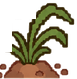
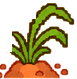
잡초: 아이콘 그림 오른쪽 아래 모서리에 크게·선명하게, 살랑살랑 흔들림 / 뽑을 때 그 자리에 서기

diff --git a/android/app/src/main/java/com/oddfactory/carrot/Stage.java b/android/app/src/main/java/com/oddfactory/carrot/Stage.java
@@ -235,6 +235,10 @@ final class Stage extends View {
     void setStale(Set<String> labels) { stale = labels; invalidate(); }
     void setScale(float k) { scale = k; invalidate(); }
 
+    // 잡초 자리: 아이콘 그림(칸 위쪽 약 70%) 오른쪽 아래 모서리
+    static float weedX(RectF r) { return r.centerX() + r.width() * 0.27f; }
+    static float weedY(RectF r) { return r.top + r.height() * 0.70f; }
+
     // ---- 크기 ----
     /** 캐릭터 키: 화면(홈·다른 앱)과 관계없이 항상 같은 크기. 설정의 크기 배율만 반영. */
     float charH() { return 120 * dp * scale; }
@@ -280,8 +284,9 @@ final class Stage extends View {
         RectF r = icons.get(k);
         boolean weedJob = queue.contains(k);
         // 잡초 일: 그림 속 잡초(발 오른쪽)가 아이콘 아래 중앙에 오도록 / 산책: 아이콘 옆에 선다
-        tx = r.centerX() - charH() * (weedJob ? 0.27f : 0.33f);
-        ty = r.bottom - (weedJob ? 0 : cellH * 0.02f);
+        // 잡초 일: 그림 속 잡초(발 오른쪽 0.285×키)가 아이콘 잡초 자리에 오도록 선다
+        tx = weedJob ? weedX(r) - charH() * 0.285f : r.centerX() - charH() * 0.33f;
+        ty = weedJob ? weedY(r) + charH() * 0.02f : r.bottom - cellH * 0.02f;
         tx = Math.max(charW() * 0.35f, Math.min(getWidth() - charW() * 0.35f, tx));
         faceRight = tx > x;
         play(S.WALK, WALK);
@@ -419,9 +424,14 @@ final class Stage extends View {
                 String k = e.getKey();
                 boolean weedy = (stale.contains(k) || queue.contains(k) || k.equals(waitingRemoval)) && !pulled.contains(k);
                 if (!weedy || (holding && k.equals(target))) continue;
+                // 아이콘 그림 오른쪽 아래 모서리에서 돋아나 살랑살랑(칸마다 박자를 조금씩 다르게)
                 RectF r = e.getValue();
-                float ww = r.width() * 0.34f, wh = ww * sp.weed.getHeight() / sp.weed.getWidth();
-                c.drawBitmap(sp.weed, null, new RectF(r.right - ww * 1.05f, r.bottom - wh * 0.95f, r.right - ww * 0.05f, r.bottom + wh * 0.05f), px);
+                float ww = r.width() * 0.42f, wh = ww * sp.weed.getHeight() / sp.weed.getWidth();
+                float cx = weedX(r), by = weedY(r);
+                float sway = (float) Math.sin(SystemClock.uptimeMillis() / 380.0 + k.hashCode() % 7) * 5f;
+                c.save(); c.rotate(sway, cx, by);
+                c.drawBitmap(sp.weed, null, new RectF(cx - ww / 2, by - wh * 0.9f, cx + ww / 2, by + wh * 0.1f), px);
+                c.restore();
             }
         }
         Bitmap b = sp.frame(frameNow(SystemClock.uptimeMillis()));
